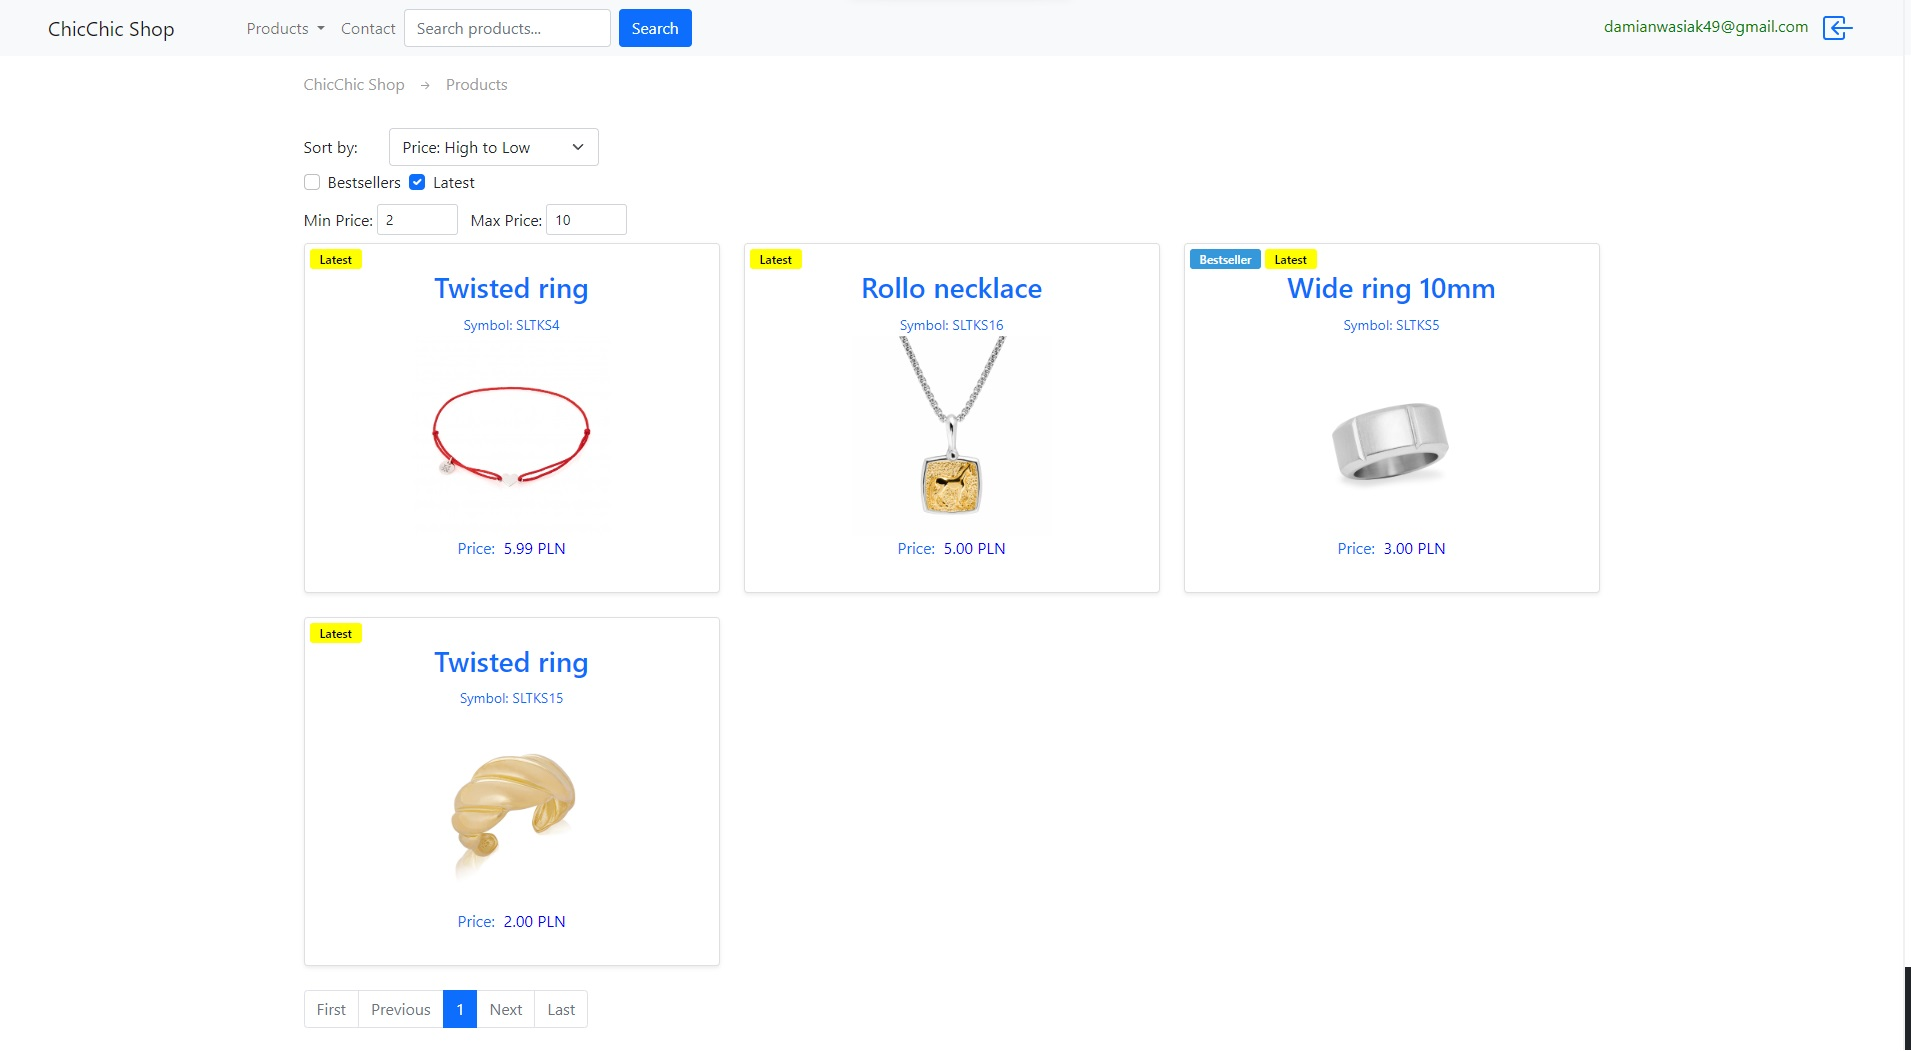
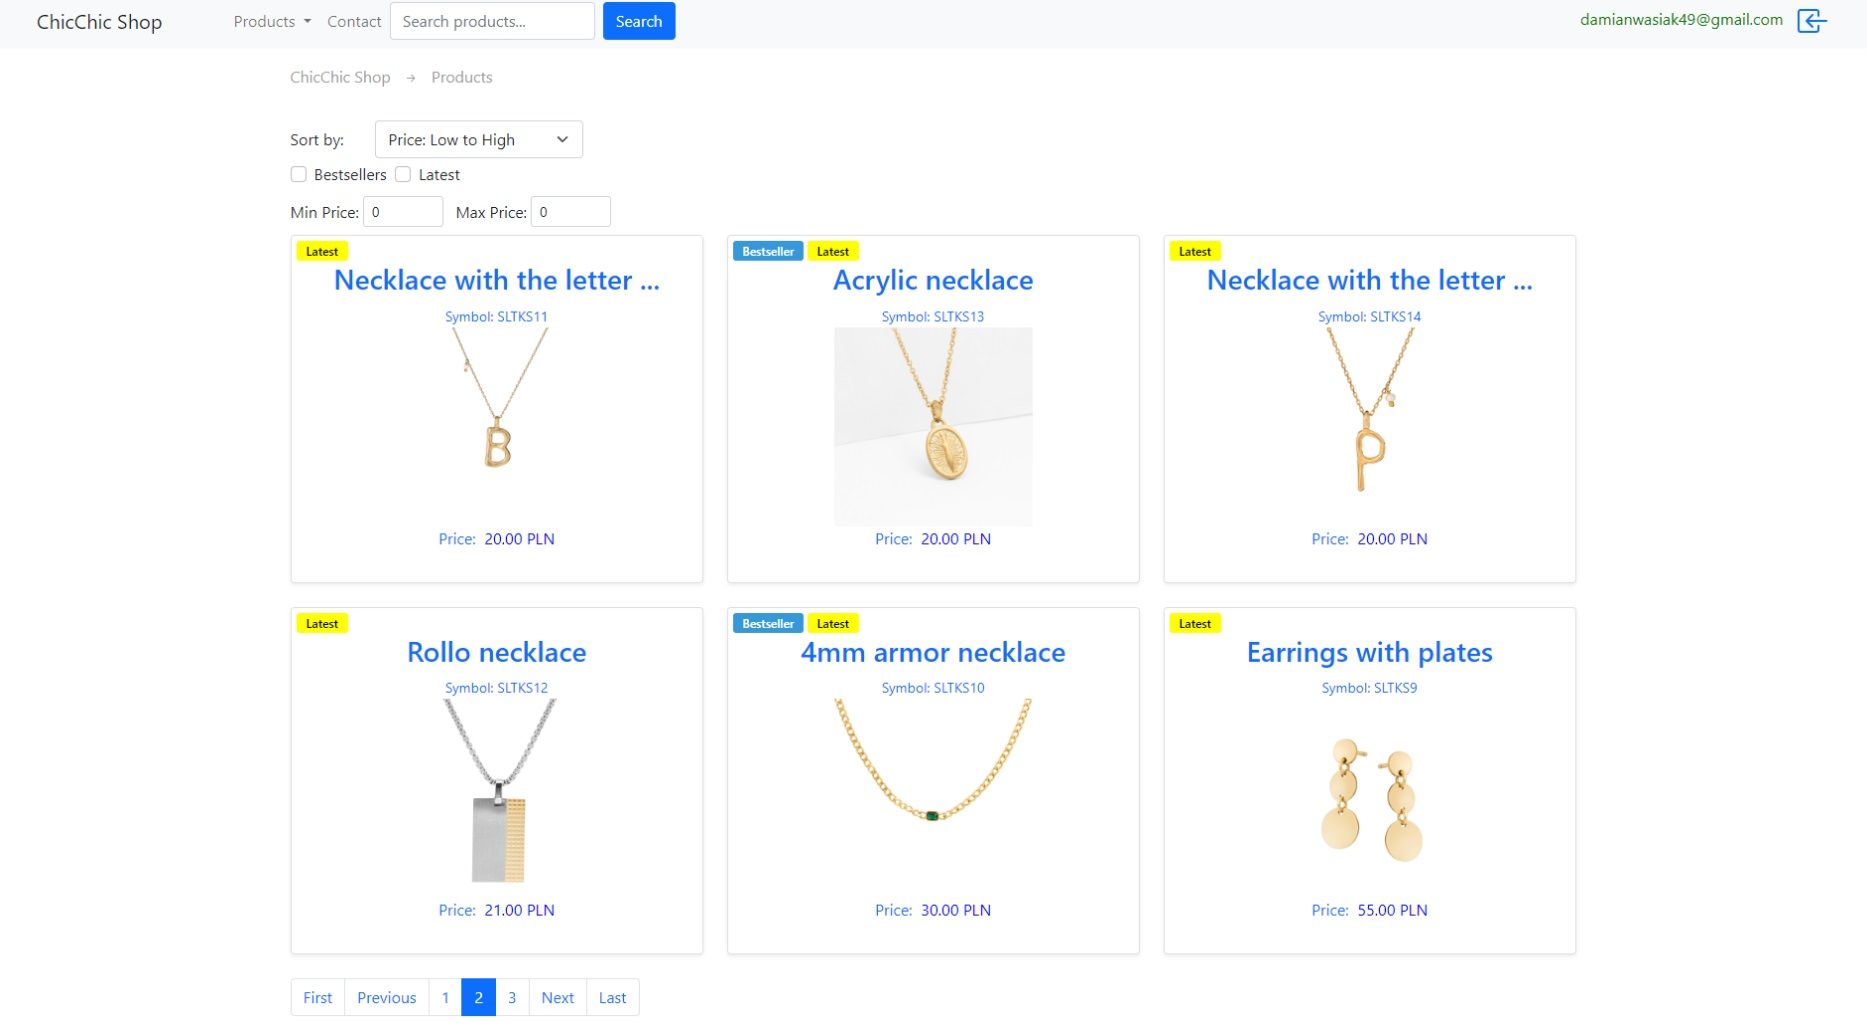
documentation

diff --git a/README.md b/README.md
@@ -53,7 +53,9 @@ View of the main page with a menu with categories that we can enter.
 
 
 ### Products
-The view shows a collection of all products. Products are paged on the server side.
+The view shows a collection of all products.
+We are on the second page of pagination.
+Paging is done on the server side.
 ![Image](https://github.com/JanuszProgramowaniaa/ChicChic-Shop/blob/main/public/images/screenshots/products.jpg)
 
 
